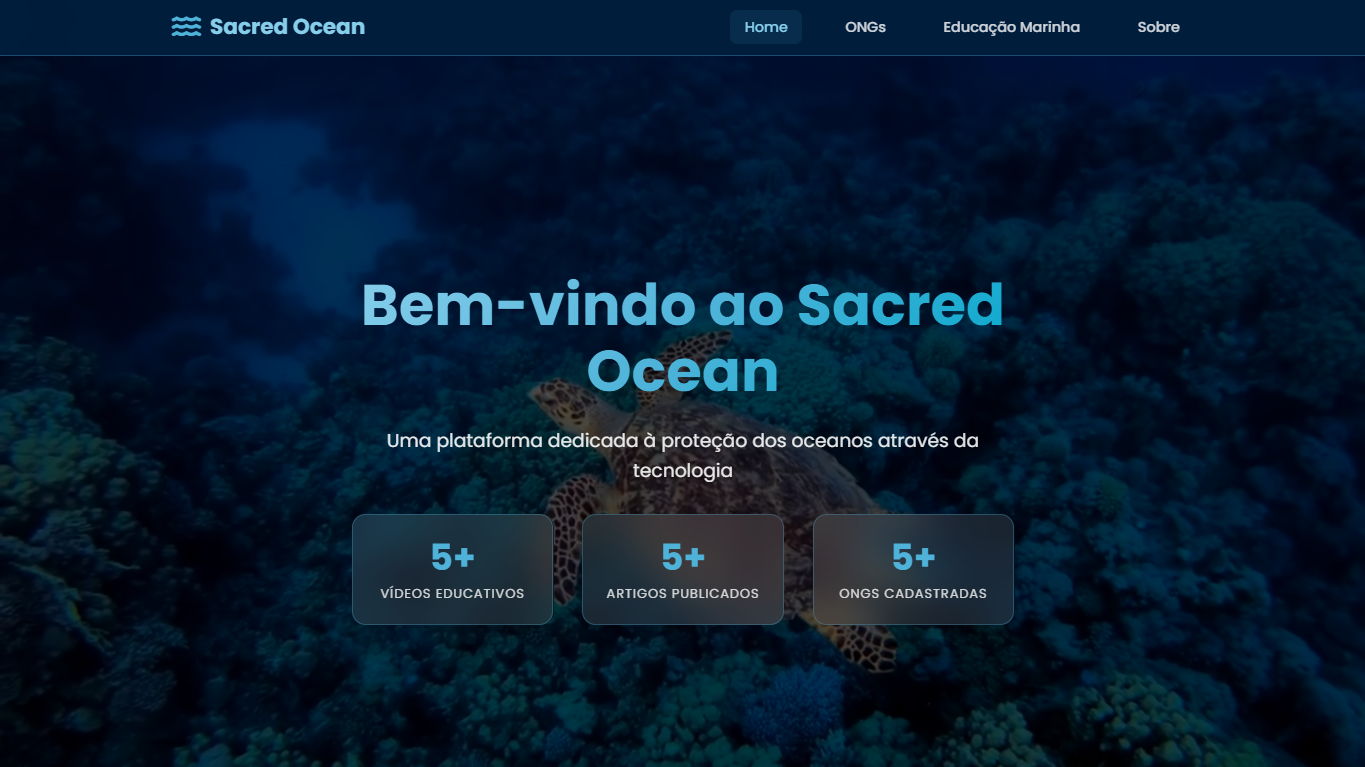
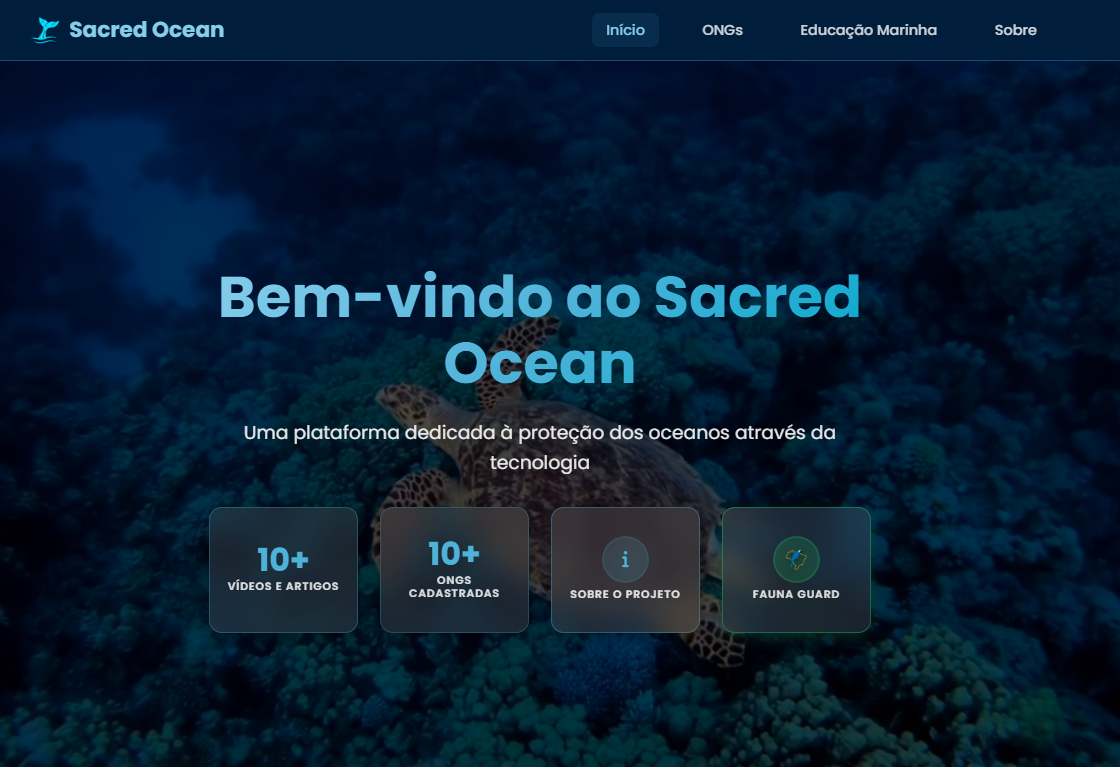
Novo projeto add: fauna guard

diff --git a/index.html b/index.html
@@ -143,6 +143,45 @@
     <h2>Projetos</h2>
     <div class="projects__container">
       <div class="projects__card">
+        <img class="card__cover" src="./assets/images/projetos/fauna.png" alt="Capa Fauna Guard">
+        <div class="card__body">
+          <h3 class="card__title">Fauna Guard</h3>
+          <p class="card__description">Plataforma WEB de conscientização sobre a preservação da fauna brasileira.</p>
+          <ul class="card__list">
+            <li class="card__item">Conscientização;</li>
+            <li class="card__item">Educação;</li>
+            <li class="card__item">Informações/Curiosidades sobre a Fauna Brasileira.</li>
+          </ul>
+          <ul class="technologies__list">
+            <li class="technologies__item">
+              <img class="technologies__logo" src="./assets/images/skills/html.png" alt="Logo HTML">
+            </li>
+            <li class="technologies__item">
+              <img class="technologies__logo" src="./assets/images/skills/css-3.png" alt="Logo CSS">
+            </li>
+            <li class="technologies__item">
+              <img class="technologies__logo" src="./assets/images/skills/script-java.png" alt="Logo JavaScript">
+            </li>
+            <li class="technologies__item">
+              <img class="technologies__logo" src="./assets/images/responsive.png" alt="Resposividade">
+            </li>
+          </ul>
+          <div class="card__buttons">
+            <a href="https://spyhenry.github.io/Fauna-Guard/" target="_blank">
+              <button class="btn btn--primary">
+                <span>Prévia</span>
+                <i class="bi bi-arrow-up-right"></i>
+              </button>
+            </a>
+            <a href="https://github.com/SpyHenry/Fauna-Guard" target="_blank">
+              <button class="btn">
+                <span>Repositório</span>
+              </button>
+            </a>
+          </div>
+        </div>
+      </div>
+      <div class="projects__card card--reverse">
         <img class="card__cover" src="./assets/images/projetos/sacred.png" alt="Capa Sacred Ocean">
         <div class="card__body">
           <h3 class="card__title">Sacred Ocean</h3>
@@ -186,7 +225,7 @@
           </div>
         </div>
       </div>
-      <div class="projects__card card--reverse">
+      <div class="projects__card">
         <img class="card__cover" src="./assets/images/projetos/batverse.png" alt="Capa Batverse">
         <div class="card__body">
           <h3 class="card__title">Batverse</h3>
@@ -224,7 +263,7 @@
           </div>
         </div>
       </div>
-      <div class="projects__card">
+      <div class="projects__card card--reverse">
         <img class="card__cover" src="./assets/images/projetos/detona-ralph.png" alt="Capa Detona Ralph">
         <div class="card__body">
           <h3 class="card__title">Eu vou Detonar!</h3>
